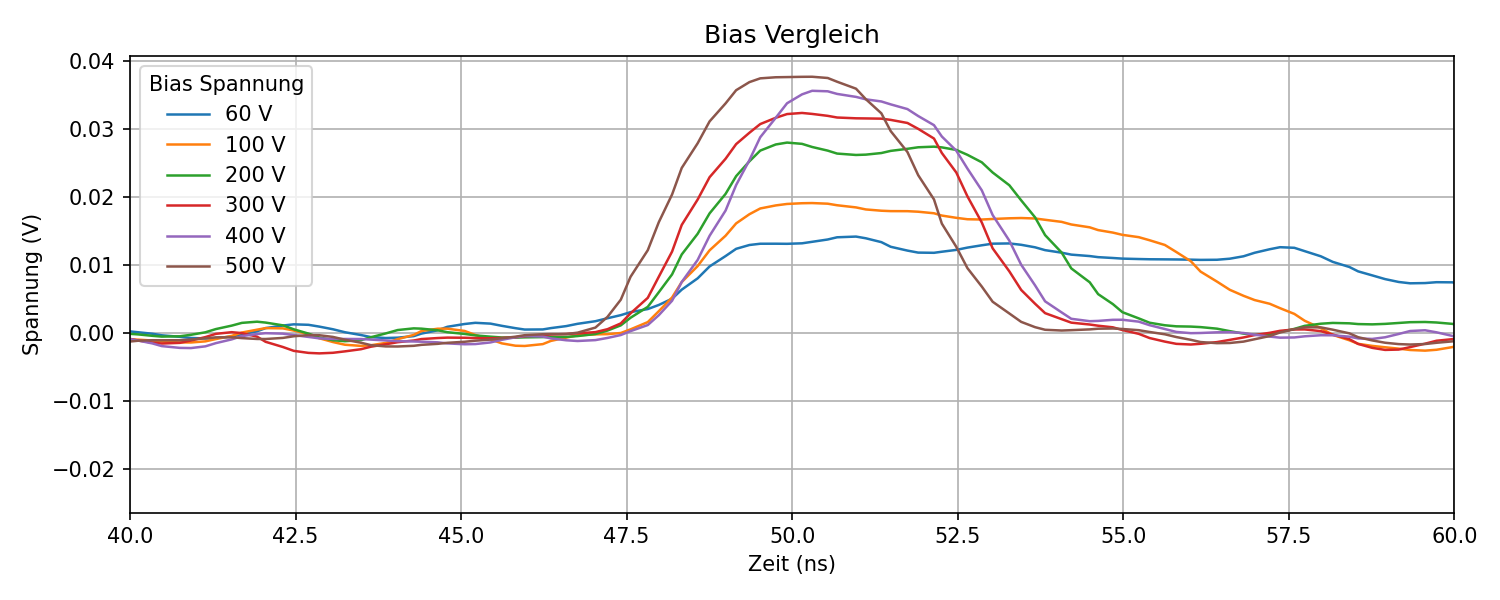
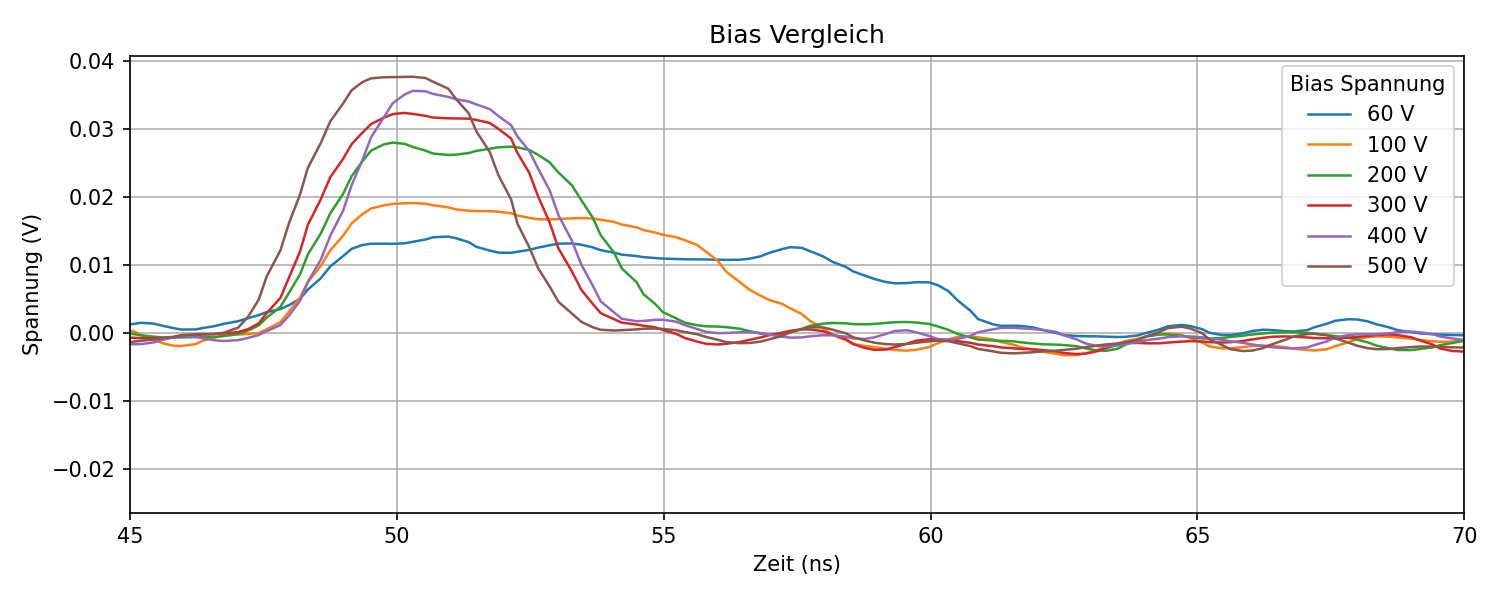
Verbesserung Theorie

diff --git a/TCT/content/auswertung.tex b/TCT/content/auswertung.tex
@@ -70,7 +70,8 @@ Somit lässt sich die erzeugte Ladung bestimmen, indem über das gemessene Signa
 sowohl für die Vorder- als auch für die Rückseite.
 Für die Berechnung wurde der Peak des Signals mittels der Python-Bibliothek \texttt{scipy.signal.find\_peaks} bestimmt.
 Für die Integrationsgrenzen wurden durch eine Abweichung von $5\,\%$ des Rauschpegels über und unter dem Peak gewählt.
-DAs Rauschen wurde durch die ersten 1000 Messpunkte eines Events bestimmt, bevor der Laser gepulst wurde.
+Das Rauschen wurde durch die ersten 1000 Messpunkte eines Events bestimmt, bevor der Laser gepulst wurde.
+Aufgrund des hohen Rauschens bei Bias-Spannungen von unter $100$ Volt  konnten diese Werte nicht zuverlässig bestimmt werden und wurden daher nicht in die Auswertung einbezogen.
 \begin{figure}[htbp]
   \centering
   \begin{subfigure}[b]{0.49\textwidth}
@@ -108,7 +109,7 @@ Durch Integration über die Siganle wurde auch hier wie oben beschrieben die Lad
   \caption{Gemittelte induzierte Ladung als Funktion der Laserintensitätsreduktion. Eine Reduktion von $x\,\%$ entspricht einer Pulsbreite von $(100-x)\,\%$. Fehlerbalken geben die Standardabweichung über 1000 Events an.}
   \label{fig:charge_laser}
 \end{figure}
-Die Ladung singt mit abnehmender Laserintensität, da weniger Elektron-Loch-Paare erzeugt werden.
+Die Ladung sinkt mit abnehmender Laserintensität, da weniger Elektron-Loch-Paare erzeugt werden.
 
 
 
@@ -129,7 +130,7 @@ Die Signaldauer ist definiert als die zeitliche Breite des Pulses vom Anstieg bi
     \caption{Rückseite (Löcher)}
     \label{fig:sigtime_r}
   \end{subfigure}
-  \caption{Gemittelte Signaldauer als Funktion der Bias-Spannung. Mit steigender Spannung sinkt die Signaldauer, da das elektrische Feld stärker wird und die Ladungsträger schneller driften.}
+  \caption{Gemittelte Signaldauer als Funktion der Bias-Spannung. Mit steigender Spannung sinkt die Signaldauer, da das elektrische Feld stärker wird und die Ladungsträger schneller driften. Aufgrund des hohen Rauschens bei Bias-Spannungen von unter $100$ Volt konnten diese Werte nicht zuverlässig bestimmt werden.}
   \label{fig:sigtime_bias}
 \end{figure}
 Mit steigendem Bias sinkt die Signaldauer, da das elektrische Feld stärker wird und die Ladungsträger schneller zur Elektrode getrieben werden.

diff --git a/TCT/Auswertung_Bias_rueckseite.py b/TCT/Auswertung_Bias_rueckseite.py
@@ -130,7 +130,7 @@ for volt in selection:
     (df["channel"] == "C001")
     ]
     sns.lineplot(data=df_sel, x="time_ns", y="voltage_V", ax=ax, linewidth=1.2, label=f"{volt} V")
-    ax.set_xlim(40, 60)
+    ax.set_xlim(45, 75)
     ax.set_title("Bias Vergleich — Rückseite")
     ax.set_xlabel("Zeit (ns)")
     ax.set_ylabel("Spannung (V)")
@@ -162,7 +162,7 @@ for volt in selection:
         mean_v = gaussian_filter(mean_v, sigma=3)
         ax.plot(t_common, mean_v, linewidth=1.2, label=f"{volt} V")
 
-ax.set_xlim(40, 60)
+ax.set_xlim(45, 75)
 ax.set_xlabel("Zeit (ns)")
 ax.set_ylabel("Spannung (V)")
 ax.set_title("Signal Rückseite")
@@ -206,6 +206,7 @@ ax.errorbar(
     charge_mean["bias_V"], charge_mean["mean"], yerr=charge_mean["std"],
     marker="o", linewidth=1.5, capsize=4, color="steelblue"
 )
+ax.set_xlim(90, 510)   
 ax.set_xlabel("Bias-Spannung (V)")
 ax.set_ylabel("Ladung (pC)")
 ax.set_title("Gemittelte Ladung vs. Bias-Spannung — Rückseite")

diff --git a/TCT/Auswertung_Bias_vorderseite.py b/TCT/Auswertung_Bias_vorderseite.py
@@ -161,7 +161,7 @@ for volt in selection:
     ]
     
     sns.lineplot(data=df_sel, x="time_ns", y="voltage_V",   ax=ax, linewidth=1.2, label=f"{volt} V")
-    ax.set_xlim(40, 60)
+    ax.set_xlim(45, 70)
     ax.set_title(f"Bias Vergleich")
     ax.set_xlabel("Zeit (ns)")
     ax.set_ylabel("Spannung (V)")
@@ -194,7 +194,7 @@ for volt in selection:
         mean_v = gaussian_filter(mean_v, sigma=3)
         ax.plot(t_common, mean_v, linewidth=1.2, label=f"{volt} V")
 
-ax.set_xlim(40, 60)
+ax.set_xlim(45, 70)
 ax.set_xlabel("Zeit (ns)")
 ax.set_ylabel("Spannung (V)")
 ax.set_title("Signal Vorderseite")
@@ -242,7 +242,7 @@ ax.errorbar(
     charge_mean["bias_V"], charge_mean["mean"], yerr=charge_mean["std"],
     marker="o", linewidth=1.5, capsize=4, color="steelblue"
 )
-
+ax.set_xlim(90, 510)
 ax.set_xlabel("Bias-Spannung (V)")
 ax.set_ylabel("Ladung (pC)")
 ax.set_title("Gemittelte Ladung vs. Bias-Spannung ")
